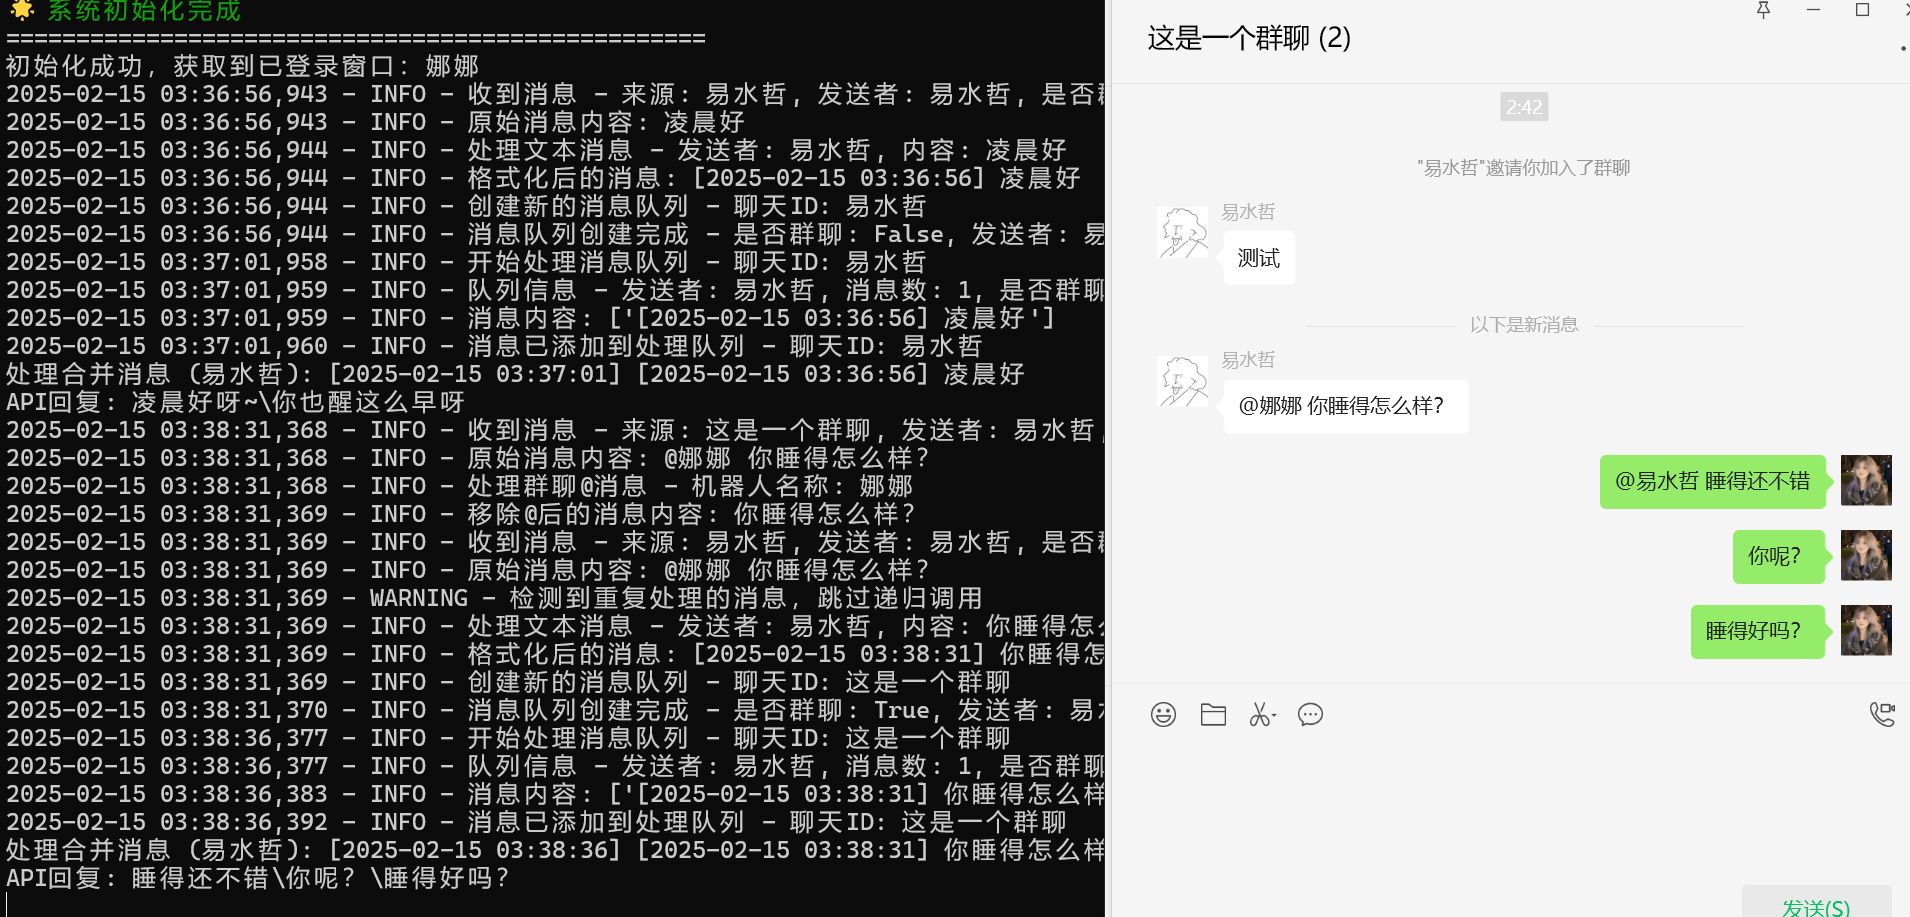
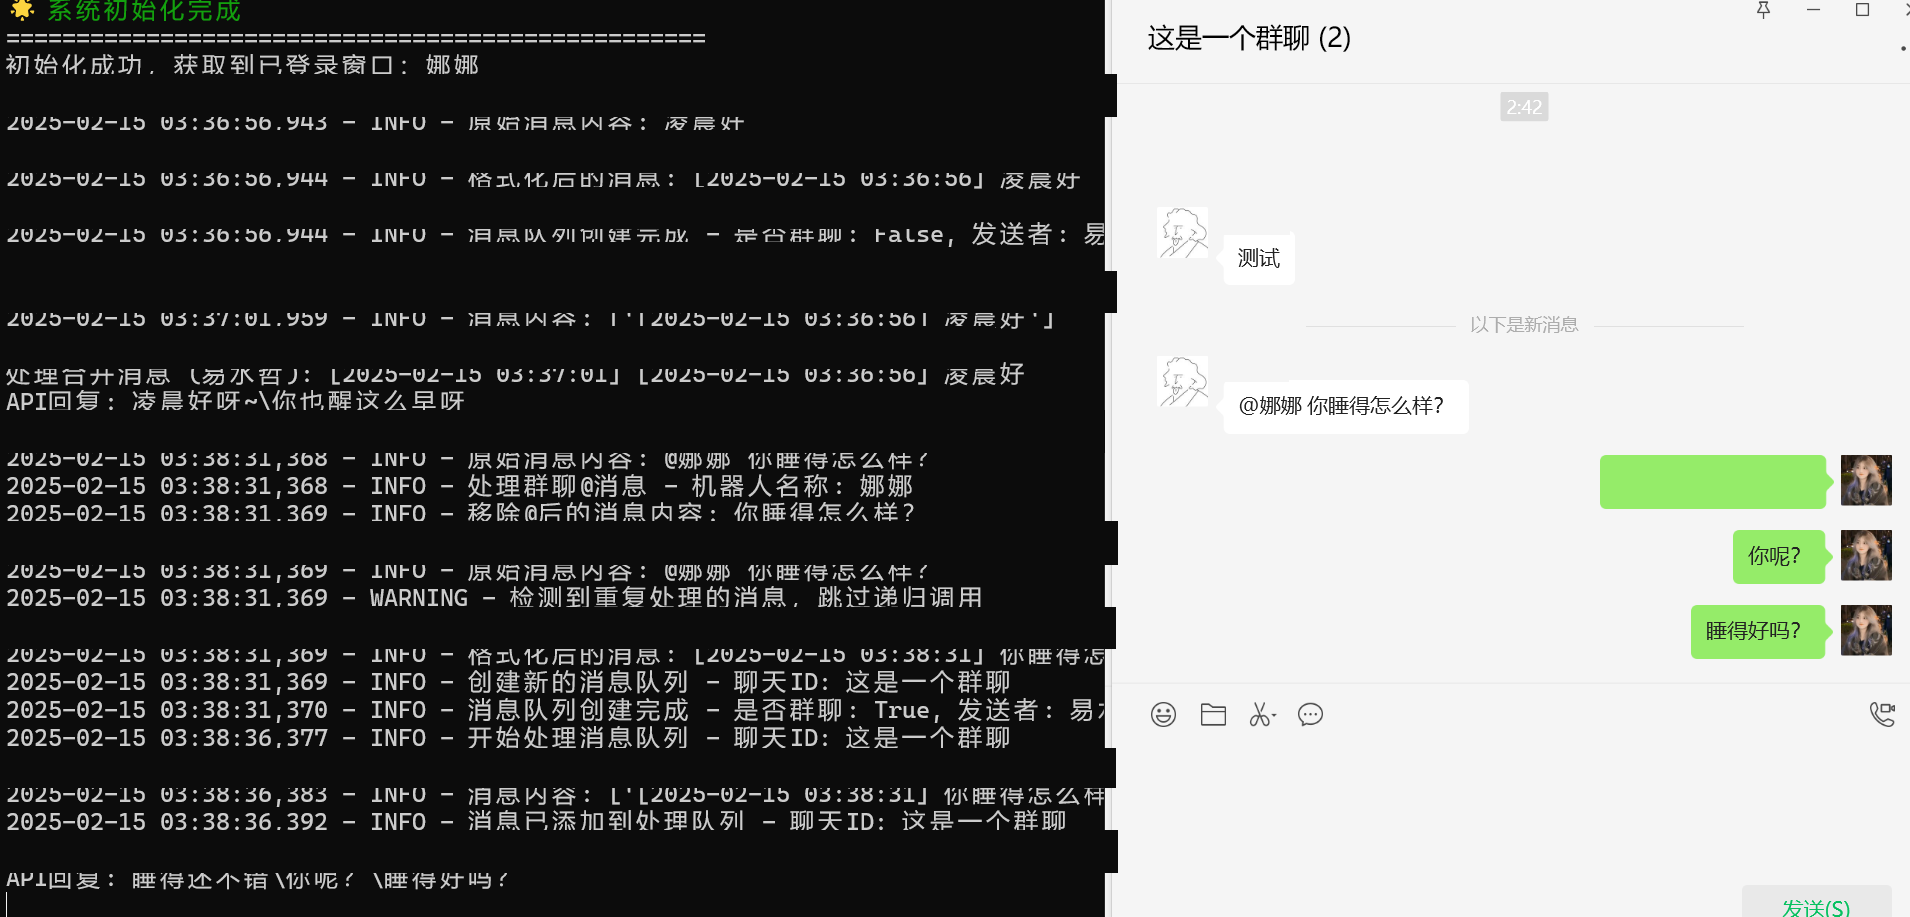
docs: restore sanitized README examples

diff --git a/README.md b/README.md
@@ -15,6 +15,17 @@
 - **情绪 GIF 表情**：根据 AI 回复中的开心、难过、生气等关键词，发送对应的可爱动画猫咪表情。
 - **更简洁的输出与配置**：启动时只打印一份简洁版权横幅；控制台显示状态和警告，详细 INFO 日志写入 `logs/`；WebUI 仅展示常用微信轮询参数。
 
+## 项目沿革与原有能力
+
+本项目早期版本在上游基础上加入了 Dify 平台对接、群聊唤醒优化和角色化对话支持。本次更新没有删除这些核心能力，而是在原有功能上继续维护：
+
+- 微信好友和群聊中的文字对话；
+- 多轮上下文和自定义角色设定；
+- Dify 应用、Prompt 与模型参数管理；
+- `@机器人昵称` 和机器人昵称开头两种群聊触发方式；
+- 消息分段、队列处理以及图片、表情等原有处理模块；
+- 新增免费微信 4 智能轮询、DeepSeek 直连和情绪 GIF。
+
 ## 工作方式
 
 ```mermaid
@@ -32,6 +43,22 @@ flowchart LR
 ```
 
 免费版仍属于**前台 UI 自动化**：启动首次建立基线时会逐个打开白名单会话；收到新消息、发送文字或发送文件时也可能切换到目标聊天。没有新消息时不会持续切换窗口。
+
+## 使用示例
+
+以下是项目早期版本的实际界面示例。截图中的个人标识已经永久遮盖；当前版本的界面可能略有变化，并且群聊回复已不会自动 `@触发者`。
+
+个人私聊触发：
+
+![个人私聊触发示例](doc/img/solo.png)
+
+群聊 `@机器人昵称` 触发：
+
+![群聊艾特触发示例](doc/img/png1.png)
+
+群聊使用机器人昵称开头触发：
+
+![群聊昵称触发示例](doc/img/png2.png)
 
 ## 环境要求
 
@@ -120,7 +147,7 @@ data/avatars/MONO/emojis/
 - API Key、Token、Cookie、GitHub 凭据
 - 微信昵称、群名、联系人列表、微信号
 - 私人角色关系、真实姓名或聊天记录
-- `logs/`、`data/wechat_poll_state.json`、截图和运行时缓存
+- `logs/`、`data/wechat_poll_state.json`、含私人信息的截图和运行时缓存
 
 如果曾经把密钥提交到 Git 历史中，仅删除文件并不足够；应立即撤销旧密钥，并按需要清理 Git 历史。
 
@@ -141,6 +168,14 @@ python -m compileall -q src tests run.py run_config_web.py test.py
 - 会话预览完全不变化且微信不提供未读标记的极端情况下，可能延迟发现消息。
 - 微信升级后如果 UI Automation 控件结构变化，可能需要调整兼容层。
 - 请控制监听对象数量和发送频率，不要用于批量营销、骚扰或规避平台规则。
+
+## 声明与免责声明
+
+- 本项目仅供个人学习、技术研究和自用，不得用于批量营销、骚扰、违法活动或规避平台规则。
+- LLM 生成内容不代表项目作者、维护者或上游作者的观点；使用者应自行判断并承担使用结果。
+- 自定义角色、Prompt、图片和聊天内容的相关权利归各自权利人所有，请勿未经许可传播私人内容或受保护材料。
+- 本项目按现状提供，不对微信版本兼容性、模型输出准确性、服务稳定性或使用造成的直接、间接损失作任何保证。
+- 使用者应遵守所在地法律法规、微信使用规则和第三方 API 服务条款，并妥善保护 API Key、联系人信息和聊天记录。
 
 ## 原项目与许可证
 

diff --git a/README_EN.md b/README_EN.md
@@ -15,6 +15,26 @@ This project preserves the original attribution and GPLv3 license. It does not b
 - Emotion-aware animated cat GIFs from Google Noto Emoji Animation.
 - One concise startup banner, WARNING+ console logs, and detailed INFO file logs.
 
+## Project history and retained capabilities
+
+Earlier versions added Dify integration, improved group-chat wake-up handling, and role-based conversations on top of the upstream projects. This update retains those capabilities while adding the free WeChat 4 polling adapter, direct DeepSeek-compatible access, and emotion GIFs. Existing modules for multi-turn context, prompts, message splitting/queues, images, and emoji handling remain available.
+
+## Usage examples
+
+These are interface examples from an earlier version. Personal identifiers have been permanently redacted. The current interface may differ slightly, and current group replies no longer automatically mention the triggering member.
+
+Private chat:
+
+![Private chat example](doc/img/solo.png)
+
+Group chat triggered with `@bot-name`:
+
+![Group mention example](doc/img/png1.png)
+
+Group chat triggered with the bot name at the beginning:
+
+![Group name trigger example](doc/img/png2.png)
+
 ## Requirements
 
 - Windows 10/11
@@ -28,7 +48,7 @@ python run_config_web.py
 python run.py
 ```
 
-The local `src/config/config.json` is ignored by Git. Never commit API keys, contact names, private prompts, logs, screenshots, or chat records.
+The local `src/config/config.json` is ignored by Git. Never commit API keys, contact names, private prompts, logs, screenshots containing private information, or chat records.
 
 ## Polling behavior
 
@@ -47,6 +67,14 @@ python -m unittest discover -s tests -v
 python test.py
 python -m compileall -q src tests run.py run_config_web.py test.py
 ```
+
+## Disclaimer
+
+- This project is intended for personal learning, technical research, and private use only. Do not use it for bulk marketing, harassment, unlawful activity, or platform-rule evasion.
+- LLM output does not represent the views of this project, its maintainers, or upstream authors. Users are responsible for reviewing generated content and for their use of it.
+- Respect the rights attached to custom characters, prompts, images, and chat content, and do not distribute private or protected material without permission.
+- The software is provided as-is, without warranties regarding WeChat compatibility, model accuracy, service availability, or losses arising from its use.
+- Users must comply with applicable law, WeChat rules, and third-party API terms, and must protect API keys, contact details, and chat records.
 
 ## Upstream and license
 